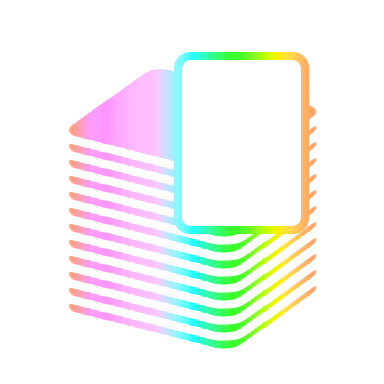
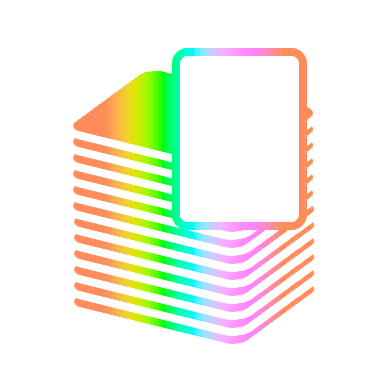
Converted fades to CSS transitions
Instead of fiddling with the opacity directly, the fades now a CSS transition. Also cleaned up the card icons.

Changed region(s): [[0.1562, 0.125, 0.8438, 0.9062]]

diff --git a/main.js b/main.js
@@ -425,50 +425,46 @@ function analyzeDeck(arr) {
     console.log("Worth: " + (worthSum / arr.length));
 }
 
-function fadeOut(id, milliseconds, andThen) {
-    if (milliseconds === undefined) milliseconds = 250;
+function parseDuration(str) {
+    if (!str) return 0;
 
-    var op = 1;
-    var timer = setInterval(function() {
-        if (op >= 0.1) {
-            setOpacity(id, op);
-            op -= (50 / milliseconds);
-        } else {
-            clearInterval(timer);
-            l(id).hidden = true;
-            setOpacity(id, 1); // Return opacity to normal for when it's unhidden later
-            if (typeof andThen === "function")
-                andThen();
-        }
-    }, 50);
+    // Split the string into a number and a unit
+    const [value, unit] = str.split(/(?<![A-Za-z])(?=[A-Za-z])/);
+
+    // Parse the number
+    const num = parseFloat(value);
+
+    // Return the number of milliseconds
+    if (unit === 's') return num * 1000;
+    if (unit === 'ms') return num;
+    return 0;
 }
 
-function fadeIn(id, milliseconds, andThen) {
-    if (milliseconds === undefined) milliseconds = 250;
-
-    var op = 0;
-    var timer = setInterval(function() {
-        if (op <= 0.9) {
-            setOpacity(id, op);
-            op += (50 / milliseconds);
-            l(id).hidden = false;
-        } else {
-            setOpacity(id, 1);
-            clearInterval(timer);
-            if (typeof andThen === "function")
-                andThen();
-        }
-    }, 50);
+function fadeTransition(from, to, andThen) {
+    hide(from, function(){show(to, andThen)});
 }
 
-function fadeTransition(from, to, milliseconds, andThen) {
-    if (milliseconds === undefined) milliseconds = 500;
-    fadeOut(from, milliseconds / 2, function(){fadeIn(to, milliseconds / 2, andThen)});
+function show(id, callback) {
+    l(id).hidden = false;
+    l(id).classList.remove('fadedOut');
+
+    if (typeof callback === "function") {
+        const duration = parseDuration(getComputedStyle(l(id)).transitionDuration);
+        const delay = parseDuration(getComputedStyle(l(id)).transitionDelay);
+
+        setTimeout(callback, duration + delay);
+    }
 }
 
-function setOpacity(id, opacity) {
-    l(id).style.opacity = opacity;
-    l(id).style.filter = "alpha(opacity=" + (opacity * 100) + ")";
+function hide(id, callback) {
+    l(id).classList.add('fadedOut');
+
+    if (typeof callback === "function") {
+        const duration = parseDuration(getComputedStyle(l(id)).transitionDuration);
+        const delay = parseDuration(getComputedStyle(l(id)).transitionDelay);
+        setTimeout(callback, duration + delay);
+        setTimeout(function(){l(id).hidden = true}, duration + delay);
+    }
 }
 
 function l(id) {
@@ -537,7 +533,7 @@ function createRadio(group, value, label, valueHolder, selected) {
 function createCustomCardNode(card, i) {
     let cardContainer = getOrCreate("div", "customCardContainer" + i);
     cardContainer.innerHTML = "";
-    cardContainer.className = "customCardContainer";
+    cardContainer.classList = "customCardContainer slowFading fadedOut";
 
     let cardNode = getOrCreate("div", "customCard" + i);
     cardNode.innerHTML = "";
@@ -613,7 +609,7 @@ function createCustomCardNode(card, i) {
         
         // No fade unless we can get the other cards to slide slickly to their new positions.
         // (Fade doesn't look cool if another card instantly teleports into the vacated space)
-        // fadeOut(cardContainer, 150, function() {l("fullCustomCardsNode").removeChild(cardContainer)});
+        // hide(cardContainer, function() {l("fullCustomCardsNode").removeChild(cardContainer)});
     }, "Remove card"));
     cardNode.appendChild(removeBtnHolder);
 
@@ -831,9 +827,8 @@ function addCustomCard() {
     deck.push(newCard);
 
     let cardNode = createCustomCardNode(newCard, deck.length - 1);
-    setOpacity(cardNode, 0);
     l("fullCustomCardsNode").appendChild(cardNode);
-    fadeIn(cardNode, 150);
+    setTimeout(function() {show(cardNode)});
 }
 
 function fullCustomize() {
@@ -842,6 +837,18 @@ function fullCustomize() {
     for (let i in deck) {
         fullCustomCardsNode.appendChild(createCustomCardNode(deck[i], i));
     }
+
+    setTimeout(function() {
+        var i = 0;
+        let timer = setInterval(function() {
+            if (i < deck.length) {
+                show(fullCustomCardsNode.childNodes[i]);
+                i++;
+            } else {
+                clearInterval(timer);
+            }
+        }, 50);
+    }, 200);
 }
 
 function finishFullCustomization() {
@@ -860,7 +867,7 @@ function drawMore() {
 }
 
 function startOver() {
-    fadeTransition("drawingNode", "initialConfig", 1000, function() {l("drawnCards").innerHTML = ""});
+    fadeTransition("drawingNode", "initialConfig", function() {l("drawnCards").innerHTML = ""});
     init();
 }
 
@@ -879,15 +886,14 @@ function draw() {
 
         // Make the card node and put it in the drawnCards node
         let cardDiv = createElement("div");
-        cardDiv.className = "drawnCard";
-        setOpacity(cardDiv, 0);
+        cardDiv.classList = "drawnCard fading fadedOut";
         let cardName = createElement("h3", undefined, card.name);
         cardName.className = "drawnCardName";
         cardDiv.appendChild(cardName);
         cardDiv.appendChild(createElement("p", undefined, card.desc));
         
         l("drawnCards").appendChild(cardDiv);
-        fadeIn(cardDiv);
+        setTimeout(function(){show(cardDiv)}, 200);
 
         // Conditional changes to declaredDraws (including "nomore", which can be vetoed) are handled by the buttons
         declaredDraws -= 1;

diff --git a/deckofallthings.html b/deckofallthings.html
@@ -126,6 +126,15 @@
                 border-radius: 15px;
                 cursor: pointer;
             }
+            .bigButton:not(:has(.mouseGreedy:hover)):hover {
+                background: rgb(80, 50, 110);
+            }
+            .bigButton:hover .declaredDrawsBox:hover {
+                background: rgb(50 25 75);
+            }
+            .bigButton:active {
+                background: rgb(30, 20, 40);
+            }
             .bigButton > * {
                 max-width: 192px;
                 width: auto;
@@ -149,6 +158,7 @@
                 -moz-user-select: none; /* Disable Firefox text selection */
                 -ms-user-select: none; /* Disable Internet Explorer text selection */
                 user-select: none; /* Disable text selection in modern browsers */
+                cursor: pointer;
             }
             .minusButton {
                 background: rgb(127, 0, 0);
@@ -179,6 +189,9 @@
             .numInput {
                 width: 2.5em;
             }
+            .mouseGreedy {
+                cursor: default;
+            }
             input[type="number"]::-webkit-inner-spin-button,
             input[type="number"]::-webkit-outer-spin-button {
                 -webkit-appearance: none;
@@ -187,16 +200,29 @@
             input[type="number"] {
                 -moz-appearance: textfield;
             }
+
+            .slowFading {
+                opacity: 1;
+                transition: opacity 500ms;
+            }
+            .fading {
+                opacity: 1;
+                transition: opacity 250ms;
+            }
+            .fadedOut {
+                opacity: 0;
+                pointer-events: none;
+            }
         </style>
     </head>
     <body>
         <div id="main">
-            <div id="initialConfig">
+            <div id="initialConfig" class="fading">
                 <h2>A deck of wondrous power is presented to you&hellip;</h2>
 
                 <div class="bigButton" id="drawRandomButton" onclick="readyDeck('random')">
                     <img src="images/icon_drawrandom.png" />
-                    <div onclick="event.stopPropagation()">
+                    <div class="mouseGreedy" onclick="event.stopPropagation()">
                         <label for="initRandDeclInput">Draw </label>
                         <div class="declaredDrawsBox">
                             <span class="minusButton" onclick="adjustDeclaredDraws(-1)">&minus;</span>
@@ -208,7 +234,7 @@
                 </div>
                 <div class="bigButton" id="drawPartialButton" onclick="readyDeck('partial')">
                     <img src="images/icon_drawpartial.png" />
-                    <div onclick="event.stopPropagation()">
+                    <div class="mouseGreedy" onclick="event.stopPropagation()">
                         <label for="initPartDeclInput">Draw </label>
                         <div class="declaredDrawsBox">
                             <span class="minusButton" onclick="adjustDeclaredDraws(-1)">&minus;</span>
@@ -220,7 +246,7 @@
                 </div>
                 <div class="bigButton" id="drawFullButton" onclick="readyDeck('full')">
                     <img src="images/icon_drawfull.png" />
-                    <div onclick="event.stopPropagation()">
+                    <div class="mouseGreedy" onclick="event.stopPropagation()">
                         <label for="initFullDeclInput">Draw </label>
                         <div class="declaredDrawsBox">
                             <span class="minusButton" onclick="adjustDeclaredDraws(-1)">&minus;</span>
@@ -232,7 +258,7 @@
                 </div>
                 <div class="bigButton" id="drawAllButton" onclick="readyDeck('all')">
                     <img src="images/icon_drawall.png" />
-                    <div onclick="event.stopPropagation()">
+                    <div class="mouseGreedy" onclick="event.stopPropagation()">
                         <label for="initAllDeclInput">Draw </label>
                         <div class="declaredDrawsBox">
                             <span class="minusButton" onclick="adjustDeclaredDraws(-1)">&minus;</span>
@@ -254,7 +280,7 @@
                 </div>
             </div>
 
-            <div id="customMenu" hidden>
+            <div id="customMenu" class="fading fadedOut" hidden>
                 <h2>Deck customization</h2>
 
                 <h3 id="custCardSrcHeader">Card sources</h3>
@@ -331,8 +357,8 @@
                 </div>
             </div>
 
-            <div id="fullCustomMenu" hidden>
-                <h2>Card customization</h2>
+            <div id="fullCustomMenu" class="fading fadedOut" hidden>
+                <h2>Edit cards</h2>
 
                 <div id="fullCustomCardsNode"></div>
 
@@ -353,7 +379,7 @@
                 </div>
             </div>
 
-            <div id="importMenu" hidden>
+            <div id="importMenu" class="fading fadedOut" hidden>
                 <h2>Import deck</h2>
 
                 <label for="importTextarea">Paste your exported deck below.</label>
@@ -377,7 +403,7 @@
                 </div>
             </div>
 
-            <div id="drawingNode" hidden>
+            <div id="drawingNode" class="fading fadedOut" hidden>
                 <h2>Let's see what you've drawn&hellip;</h2>
 
                 <div id="drawnCards"></div>
